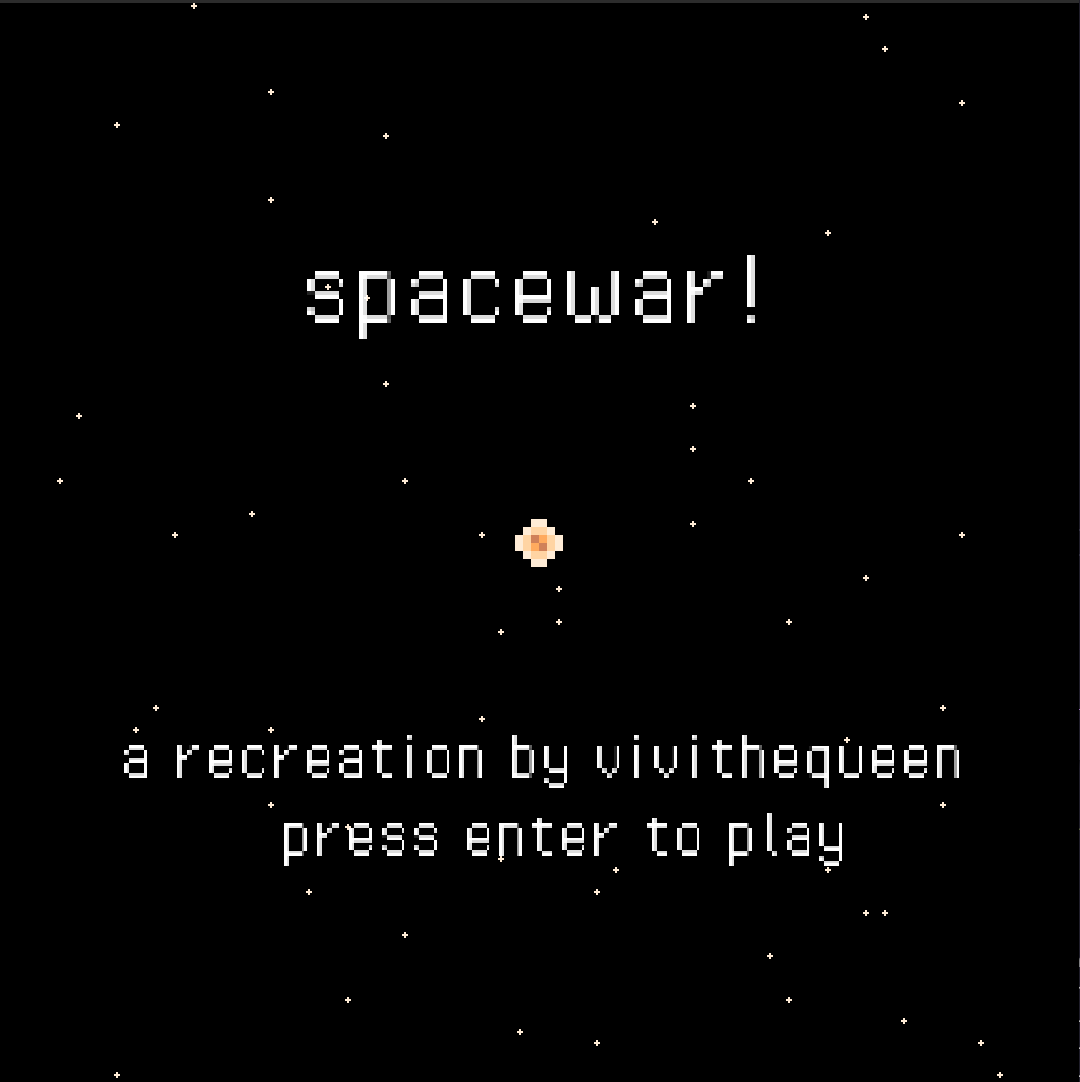
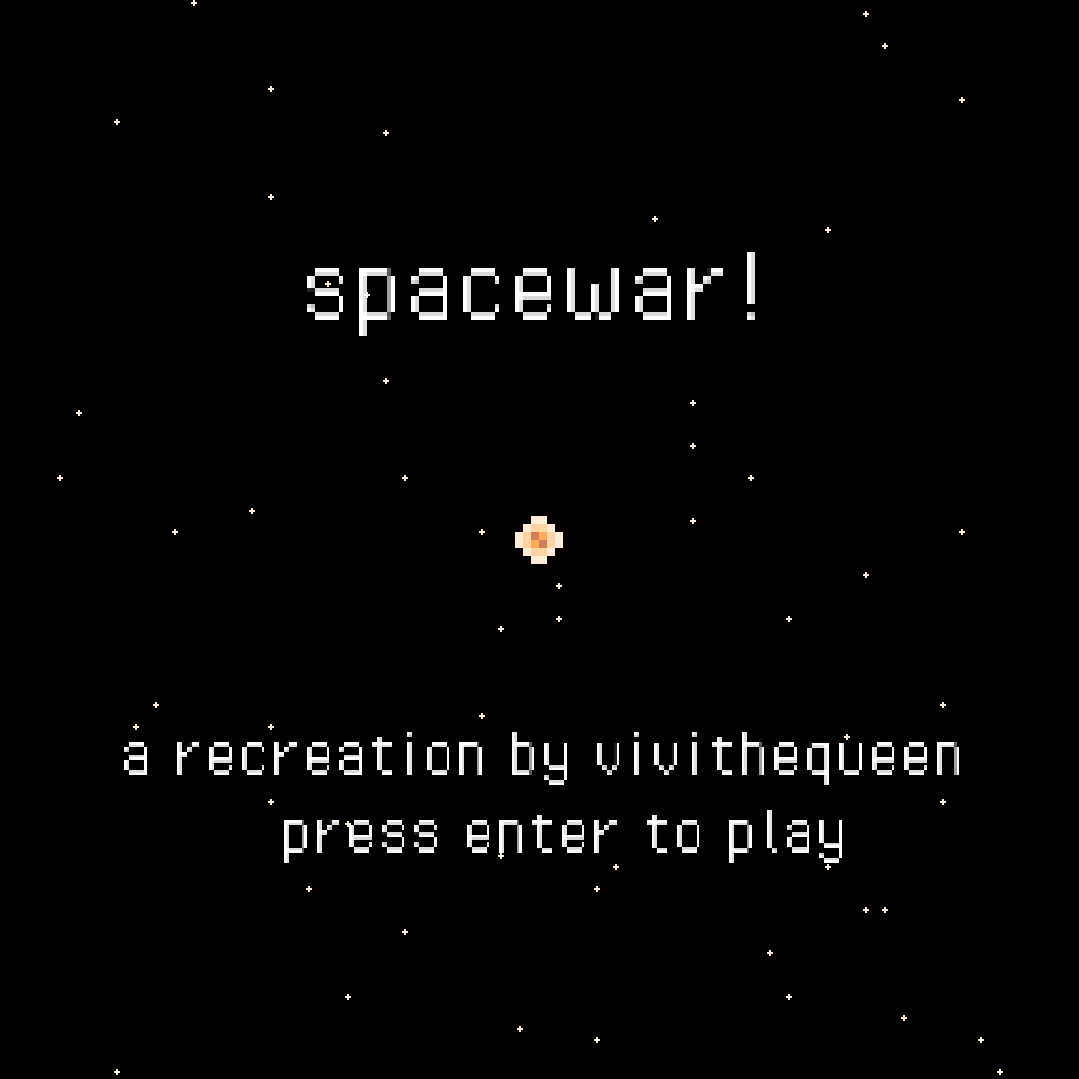
project stuff

diff --git a/index.html b/index.html
@@ -6,9 +6,36 @@
     </head>
     <body>
         <div class = "topbar">
-            <img class = "navbarimage" src = "images/duckdance_cropped1.gif">
-            <img class = "navbarimage" src = "images/five_pebbles.gif">
-            <img class = "navbarimage" src = "images/duckdance_rivonly.gif">
+            <a href = "https://vivithequeen.github.io/tribute"><img class = "navbarimage" src = "images/duckdance_cropped1.gif"></a>
+            <a href = "https://vivithequeen.github.io/tribute"><img class = "navbarimage" src = "images/five_pebbles.gif"></a>
+            <a href = "https://vivithequeen.github.io/tribute"><img class = "navbarimage" src = "images/duckdance_rivonly.gif"></a>
+            <a href = "https://vivithequeen.github.io/tribute"><img class = "navbarimage" src = "images/duckdance_cropped1.gif"></a>
+            <a href = "https://vivithequeen.github.io/tribute"><img class = "navbarimage" src = "images/five_pebbles.gif"></a>
+            <a href = "https://vivithequeen.github.io/tribute"><img class = "navbarimage" src = "images/duckdance_rivonly.gif"></a>
+            <a href = "https://vivithequeen.github.io/tribute"><img class = "navbarimage" src = "images/duckdance_cropped1.gif"></a>
+            <a href = "https://vivithequeen.github.io/tribute"><img class = "navbarimage" src = "images/five_pebbles.gif"></a>
+            <a href = "https://vivithequeen.github.io/tribute"><img class = "navbarimage" src = "images/duckdance_rivonly.gif"></a>
+            <a href = "https://vivithequeen.github.io/tribute"><img class = "navbarimage" src = "images/duckdance_cropped1.gif"></a>
+            <a href = "https://vivithequeen.github.io/tribute"><img class = "navbarimage" src = "images/five_pebbles.gif"></a>
+            <a href = "https://vivithequeen.github.io/tribute"><img class = "navbarimage" src = "images/duckdance_rivonly.gif"></a>
+            <a href = "https://vivithequeen.github.io/tribute"><img class = "navbarimage" src = "images/duckdance_cropped1.gif"></a>
+            <a href = "https://vivithequeen.github.io/tribute"><img class = "navbarimage" src = "images/five_pebbles.gif"></a>
+            <a href = "https://vivithequeen.github.io/tribute"><img class = "navbarimage" src = "images/duckdance_rivonly.gif"></a>
+            <a href = "https://vivithequeen.github.io/tribute"><img class = "navbarimage" src = "images/duckdance_cropped1.gif"></a>
+            <a href = "https://vivithequeen.github.io/tribute"><img class = "navbarimage" src = "images/five_pebbles.gif"></a>
+            <a href = "https://vivithequeen.github.io/tribute"><img class = "navbarimage" src = "images/duckdance_rivonly.gif"></a>
+            <a href = "https://vivithequeen.github.io/tribute"><img class = "navbarimage" src = "images/duckdance_cropped1.gif"></a>
+            <a href = "https://vivithequeen.github.io/tribute"><img class = "navbarimage" src = "images/five_pebbles.gif"></a>
+            <a href = "https://vivithequeen.github.io/tribute"><img class = "navbarimage" src = "images/duckdance_rivonly.gif"></a>
+            <a href = "https://vivithequeen.github.io/tribute"><img class = "navbarimage" src = "images/duckdance_cropped1.gif"></a>
+            <a href = "https://vivithequeen.github.io/tribute"><img class = "navbarimage" src = "images/five_pebbles.gif"></a>
+            <a href = "https://vivithequeen.github.io/tribute"><img class = "navbarimage" src = "images/duckdance_rivonly.gif"></a>
+            <a href = "https://vivithequeen.github.io/tribute"><img class = "navbarimage" src = "images/duckdance_cropped1.gif"></a>
+            <a href = "https://vivithequeen.github.io/tribute"><img class = "navbarimage" src = "images/five_pebbles.gif"></a>
+            <a href = "https://vivithequeen.github.io/tribute"><img class = "navbarimage" src = "images/duckdance_rivonly.gif"></a>
+            <a href = "https://vivithequeen.github.io/tribute"><img class = "navbarimage" src = "images/duckdance_cropped1.gif"></a>
+
+
         </div>
         <div class = title>ViviTheQueen</div>
         <div>
@@ -31,10 +58,28 @@
             
             <figure>
                 <img class = "projectimage" src = "images/Screenshot from 2025-06-19 15-19-25.png">
-                <figcaption>AHH</figcaption>
+                <figcaption>
+                    Super important learning experience for me with oop and polymorthism and other cool c++ things
+                </figcaption>
             </figure>
         </div>
 
+    <div>
+
+    <div class = projectflexbox>
+        <div class = projectbox>
+            <div class = "projecttitle">spacewar!</div>
+            
+            <figure>
+                <img class = "projectimage" src = "images/Screenshot from 2025-06-07 21-37-10.png">
+                <figcaption>
+                    recreation of spacewar by me!!
+                </figcaption>
+            </figure>
+        </div>
+
+    <div>
+    </div>
 
     </div>
     

diff --git a/style.css b/style.css
@@ -117,9 +117,11 @@ ul {
 }
 
 .topbar {
+  overflow: hidden;
   position: fixed;
   padding: 8px 12px;
   background:black;
+  top: 0;
   width: 100%;
 }
 
@@ -131,8 +133,8 @@ ul {
                  0 3px 0 0 black;
   
   color: #a2d2ff;
-  width: 300px;
-  height: 200px;
+  width: 60%;
+  height: 30%px;
   padding: 10px;
   margin:auto;
   
@@ -140,10 +142,11 @@ ul {
   display: flex;
   flex-direction: row;
   margin: auto;
+  margin-bottom: 10%;
 }
 
 .projectflexbox {
-
+  
 }
 
 .projecttitle {
@@ -158,7 +161,7 @@ ul {
   
   padding: 10px;
   max-width: 100%;
-  margin: 30px;
+  margin: auto;
 
   display: block;
 }
